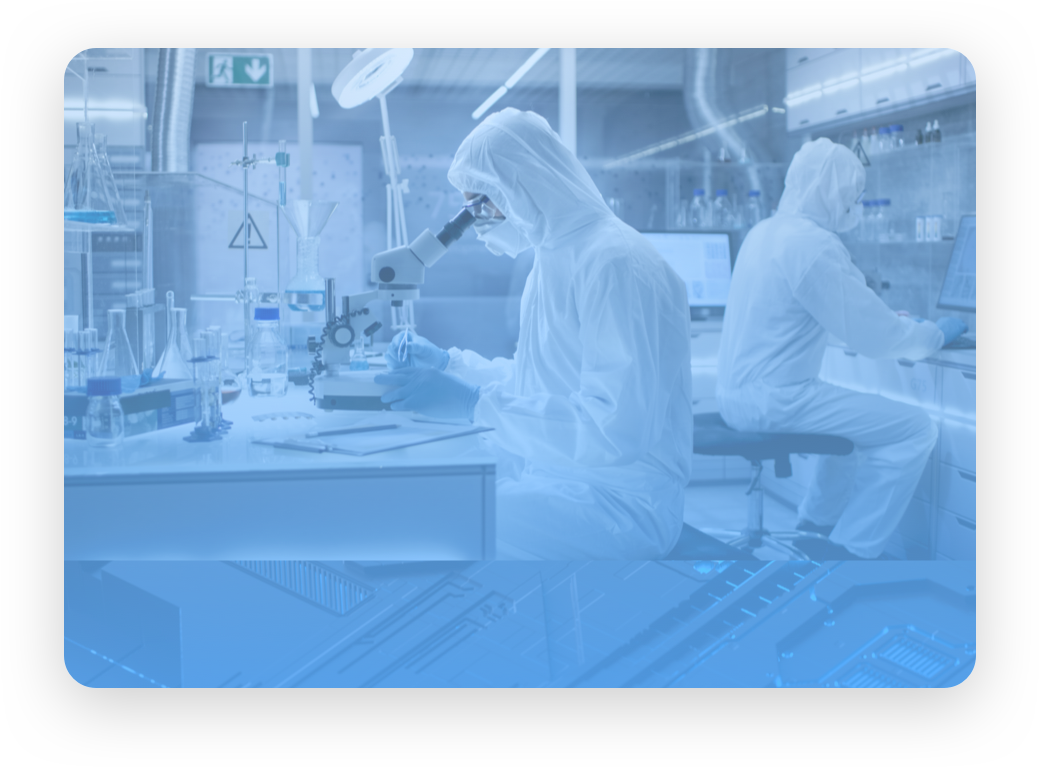
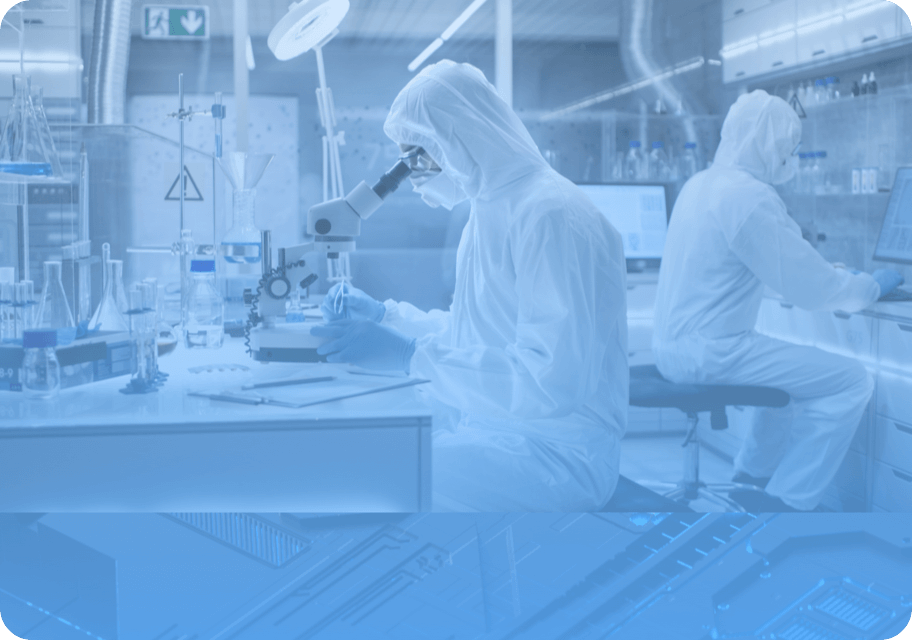
fix:处理医疗专区图片

diff --git a/src/views/estate/medicine/endometrialcancer/EndometrialcancerExplain.vue b/src/views/estate/medicine/endometrialcancer/EndometrialcancerExplain.vue
@@ -1,5 +1,5 @@
 <script setup>
-import electricity1 from '@/assets/imgs/estate/electricity/electricity1.png';
+import backgroundImg from '@/assets/imgs/estate/medicine/cancer/background.png';
 import solutionImg1 from '@/assets/imgs/estate/medicine/cancer/solution-img1.png';
 import solutionImg2 from '@/assets/imgs/estate/medicine/cancer/solution-img2.png';
 </script>
@@ -16,7 +16,7 @@ import solutionImg2 from '@/assets/imgs/estate/medicine/cancer/solution-img2.png
           2018年全球新增病例约37.84万例。随着人类预期寿命的延长和生活习惯的改变，子宫内膜癌的发病率呈上升趋势，且患者趋向于年轻化。在恰当的治疗下，早期子宫内膜癌的5年生存率大于85%，中期子宫内膜癌的5年生存率为49%～71%，而晚期的5年生存率小于17%。因此，建议对暴露于高风险的女性进行筛查。强烈建议对子宫内膜癌和癌前病变筛查以早期诊断并降低发病率和死亡率。子宫内膜癌发病率逐年上升，开展子宫内膜癌筛查已迫在眉睫。
         </div>
         <div class="case-img">
-          <img :src="electricity1" alt="" />
+          <img :src="backgroundImg" alt="" class="background-img" />
         </div>
         <div>
           早期子宫内膜在筛查的研究主要集中在微创的组织病理学和细胞病理学方向。
@@ -61,7 +61,7 @@ import solutionImg2 from '@/assets/imgs/estate/medicine/cancer/solution-img2.png
         </p>
         <div class="case-img">
           <img :src="solutionImg1" alt="" />
-          <img :src="solutionImg2" alt="" />
+          <img :src="solutionImg2" alt="" class="solution-img" />
         </div>
         <p>
           美佳家共收集113例(42例恶性，71例良性)子宫内膜样本，构建了包含15,913张图像的数据集。该分割网络共获得了39,000个ECCs补丁。然后，分别使用26880和11520个补丁进行训练和测试。在训练集达到100%的前提下，测试集的准确率为93.5%，特异性为92.2%，灵敏度为92.0%，成功建立了自动识别和诊断子宫内膜细胞团块(ECCs)病理图像的人工智能系统。
@@ -123,10 +123,10 @@ import solutionImg2 from '@/assets/imgs/estate/medicine/cancer/solution-img2.png
         flex-direction: column;
         align-items: center;
         img {
-          width: 48%;
-          &:last-child {
-            margin-top: 24px;
-          }
+          width: 50%;
+        }
+        .solution-img {
+          margin-top: 24px;
         }
       }
       .summary {

diff --git a/src/views/estate/medicine/TheMedicine.vue b/src/views/estate/medicine/TheMedicine.vue
@@ -17,18 +17,18 @@ const cases = [
   },
   {
     id: 1,
-    type: 'TrueSight人工智能临床外科手术决…',
+    type: 'TrueSight人工智能临床外科手术决策支持系统',
     name: '本案例是一项由清华大学附属清华长庚医院肝胆胰中心与清华大学精密仪器系骨干成员共同组成申请的创新型医…',
     image: surgeryImg,
     url: '/estate/medicine/truesight', //TODO
   },
-  {
+  /* {
     id: 2,
     type: '智慧病理诊断系统',
     name: '智慧病理诊断系统，实现了病理诊断全流程标准化、数字化和智能化，为病理诊断领域发展注入强劲动力。',
     image: diagnosticImg,
     url: '/estate/medicine/diagnosis',
-  },
+  }, */
 ];
 
 const router = useRouter();
@@ -95,7 +95,7 @@ function goCasePath(item) {
         line-height: 26px;
         font-weight: 500;
         display: -webkit-box;
-        -webkit-line-clamp: 2;
+        -webkit-line-clamp: 1;
         -webkit-box-orient: vertical;
         overflow: hidden;
         text-overflow: '...';
